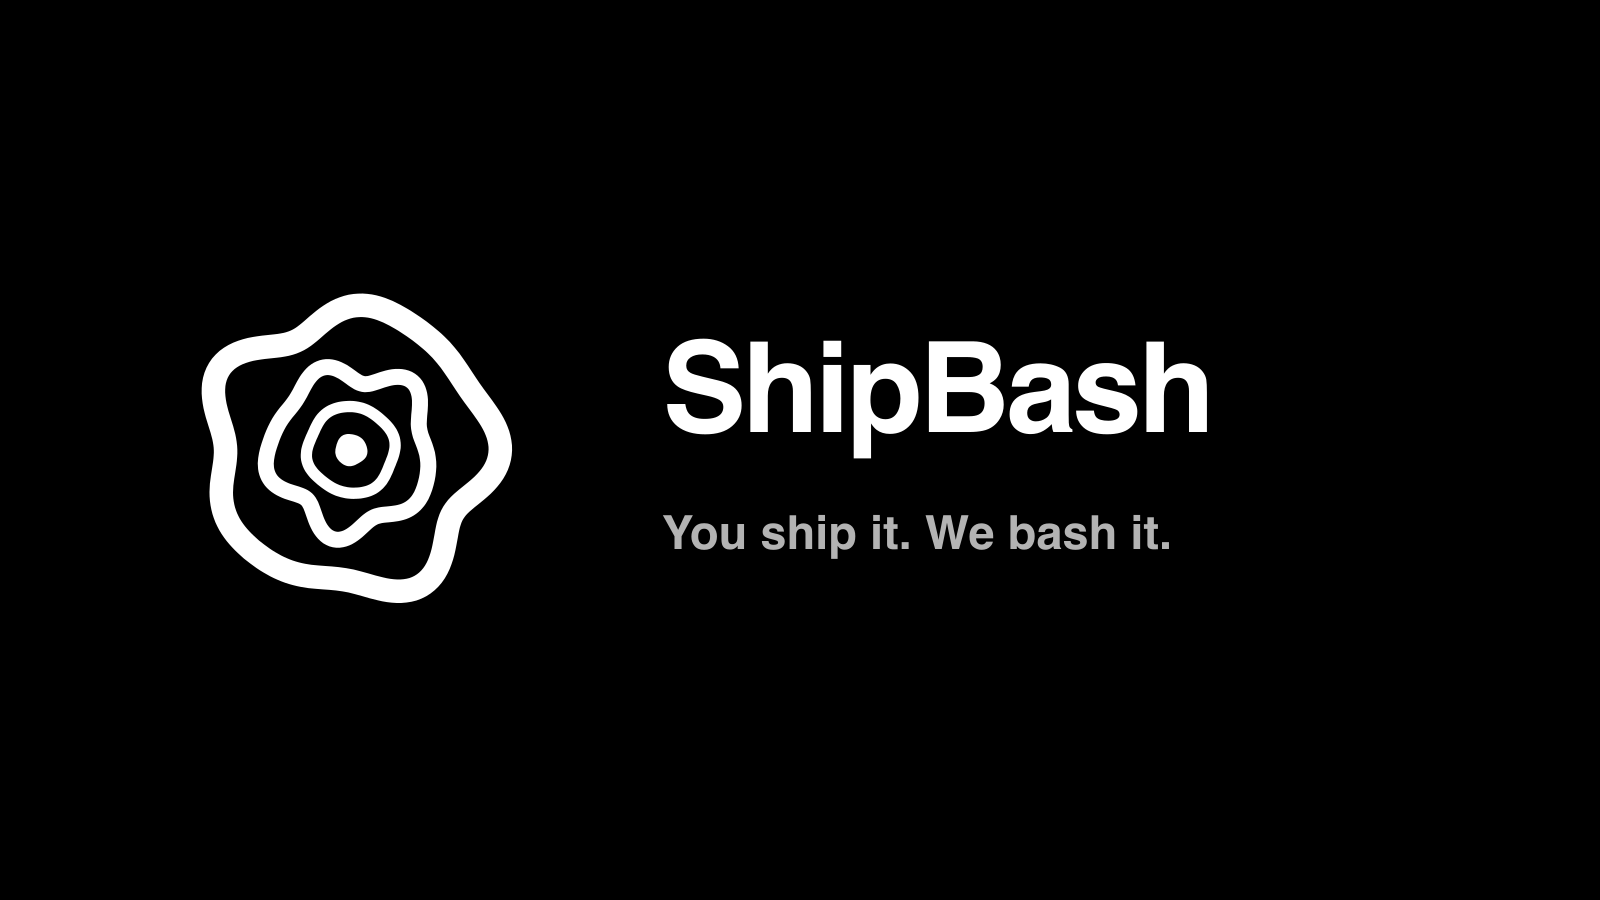
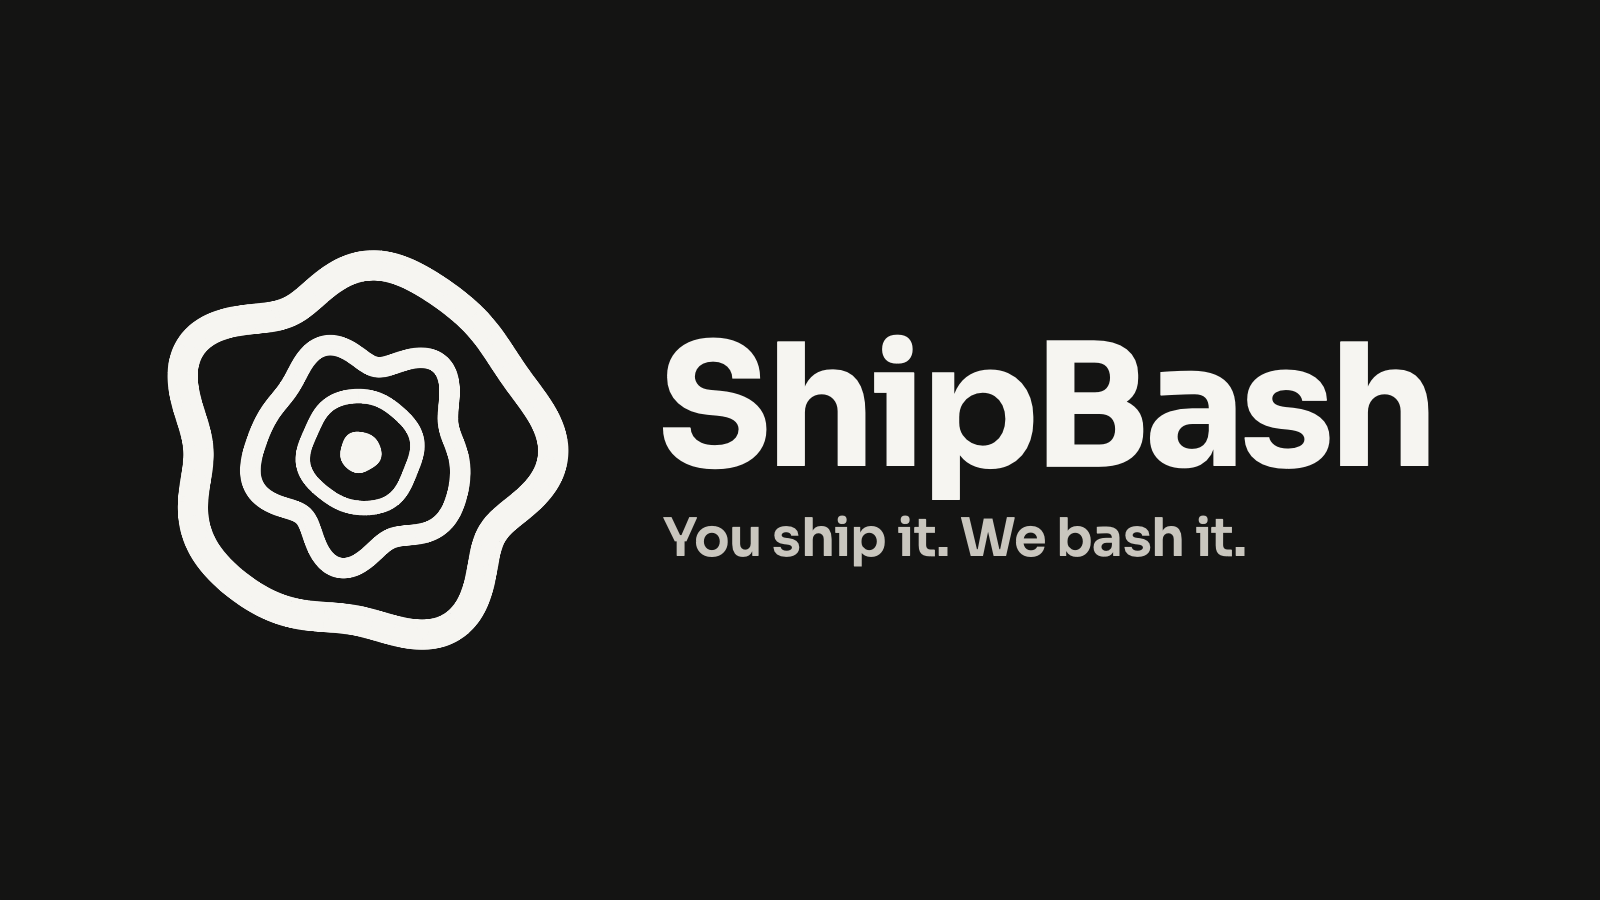
feat(marketing): GitHub link in the nav and the designed share cards (#4)
The marketing nav links to the open-source repository beside Log in (icon
only on phones). The Open Graph image and launch cover now come from the
finished artwork in brand/source, like the repository social preview, and
shipbash.dev uses that Open Graph image instead of the drawn one.

Changed region(s): [[0.4062, 0.3733, 0.9062, 0.6222], [0.0938, 0.28, 0.375, 0.7467]]

diff --git a/scripts/generate-shipbash-assets.ts b/scripts/generate-shipbash-assets.ts
@@ -5,7 +5,6 @@ import sharp from "sharp";
 
 import { staticEyePaths } from "../apps/marketing/lib/wobbly-path.ts";
 
-const PAPER = "#f7f5f2";
 const INK = "#141414";
 const BLACK = "#000000";
 const WHITE = "#ffffff";
@@ -59,24 +58,6 @@ function lockupSvg(ink: string): string {
     `<style>@font-face{font-family:Sora;src:url('${soraDataUrl}') format('woff2');font-weight:700}</style>`,
     `<g transform="translate(26 16) scale(.72)">${eyePaths(ink)}</g>`,
     `<text x="350" y="210" fill="${ink}" font-family="Sora, sans-serif" font-size="132" font-weight="700" letter-spacing="-5">ShipBash</text>`,
-    "</svg>",
-  ].join("");
-}
-
-function socialSvg(width: number, height: number, background: string, ink: string): string {
-  const eyeSize = Math.round(height * 0.46);
-  const eyeX = Math.round(width * 0.09);
-  const eyeY = Math.round((height - eyeSize) / 2);
-  const copyX = eyeX + eyeSize + Math.round(width * 0.065);
-  const titleSize = Math.round(height * 0.14);
-  const taglineSize = Math.round(height * 0.052);
-  return [
-    `<svg xmlns="http://www.w3.org/2000/svg" width="${width}" height="${height}" viewBox="0 0 ${width} ${height}">`,
-    `<style>@font-face{font-family:Sora;src:url('${soraDataUrl}') format('woff2');font-weight:700}</style>`,
-    `<rect width="${width}" height="${height}" fill="${background}"/>`,
-    `<svg x="${eyeX}" y="${eyeY}" width="${eyeSize}" height="${eyeSize}" viewBox="-20 -20 440 440">${eyePaths(ink)}</svg>`,
-    `<text x="${copyX}" y="${Math.round(height * 0.48)}" fill="${ink}" font-family="Sora, sans-serif" font-size="${titleSize}" font-weight="700" letter-spacing="-${Math.round(titleSize * 0.035)}">ShipBash</text>`,
-    `<text x="${copyX}" y="${Math.round(height * 0.61)}" fill="${ink}" opacity=".7" font-family="Sora, sans-serif" font-size="${taglineSize}" font-weight="700">You ship it. We bash it.</text>`,
     "</svg>",
   ].join("");
 }
@@ -156,8 +137,6 @@ const [
   favicon32,
   favicon48,
   githubBadgePreview,
-  openGraph,
-  launchCover,
 ] = await Promise.all([
   png(markBlackSvg, 1024),
   png(markWhiteSvg, 1024),
@@ -172,11 +151,13 @@ const [
   png(faviconSvg, 32),
   png(faviconSvg, 48),
   png(githubBadgePreviewSvg(), 400),
-  png(socialSvg(1200, 630, PAPER, INK), 1200, 630),
-  png(socialSvg(1600, 900, BLACK, WHITE), 1600, 900),
 ]);
 
-const socialPreview = await readFile(join(SOURCE_DIRECTORY, "shipbash-social-preview-1280x640.png"));
+const [socialPreview, openGraph, launchCover] = await Promise.all([
+  readFile(join(SOURCE_DIRECTORY, "shipbash-social-preview-1280x640.png")),
+  readFile(join(SOURCE_DIRECTORY, "shipbash-open-graph-1200x630.png")),
+  readFile(join(SOURCE_DIRECTORY, "shipbash-launch-cover-1600x900.png")),
+]);
 
 const faviconIco = ico([
   { size: 16, data: favicon16 },

diff --git a/apps/marketing/app/_components/marketing-hero.tsx b/apps/marketing/app/_components/marketing-hero.tsx
@@ -95,7 +95,13 @@ export function MarketingHero() {
               <StaticEye compact />
               <span>ShipBash</span>
             </a>
-            <a className="button-sketch login-link" href={`${applicationOrigin}/login`}>Log in</a>
+            <div className="nav-actions">
+              <a className="github-link" href="https://github.com/dohooo/shipbash" aria-label="ShipBash on GitHub">
+                <svg viewBox="0 0 24 24" aria-hidden="true"><path d="M12 0c6.63 0 12 5.276 12 11.79-.001 5.067-3.29 9.567-8.175 11.187-.6.118-.825-.25-.825-.56 0-.398.015-1.665.015-3.242 0-1.105-.375-1.813-.81-2.181 2.67-.295 5.475-1.297 5.475-5.822 0-1.297-.465-2.344-1.23-3.169.12-.295.54-1.503-.12-3.125 0 0-1.005-.324-3.3 1.209a11.32 11.32 0 00-3-.398c-1.02 0-2.04.133-3 .398-2.295-1.518-3.3-1.209-3.3-1.209-.66 1.622-.24 2.83-.12 3.125-.765.825-1.23 1.887-1.23 3.169 0 4.51 2.79 5.527 5.46 5.822-.345.294-.66.81-.765 1.577-.69.31-2.415.81-3.495-.973-.225-.354-.9-1.223-1.845-1.209-1.005.015-.405.56.015.781.51.28 1.095 1.327 1.23 1.666.24.663 1.02 1.93 4.035 1.385 0 .988.015 1.916.015 2.196 0 .31-.225.664-.825.56C3.303 21.374-.003 16.867 0 11.791 0 5.276 5.37 0 12 0z" /></svg>
+                <span>GitHub</span>
+              </a>
+              <a className="button-sketch login-link" href={`${applicationOrigin}/login`}>Log in</a>
+            </div>
           </nav>
 
           <div

diff --git a/apps/marketing/app/globals.css b/apps/marketing/app/globals.css
@@ -64,6 +64,19 @@ button { color: inherit; }
   transition: transform 150ms ease, background 150ms ease, box-shadow 150ms ease, color 150ms ease;
 }
 .login-link { padding: 11px 26px; font-size: 14px; }
+.nav-actions { display: flex; align-items: center; gap: 22px; }
+.github-link {
+  display: inline-flex;
+  align-items: center;
+  gap: 8px;
+  font-family: Sora, Helvetica, sans-serif;
+  font-weight: 700;
+  font-size: 14px;
+  transition: transform 150ms ease;
+}
+.github-link svg { width: 22px; height: 22px; display: block; fill: currentColor; }
+.github-link:hover,
+.github-link:focus-visible { transform: rotate(-3deg) scale(1.06); outline: none; }
 .button-sketch:hover,
 .button-sketch:focus-visible {
   color: var(--ink);
@@ -225,6 +238,9 @@ button { color: inherit; }
   .wordmark svg { width: 30px; height: 30px; }
   .wordmark span { font-size: 17px; }
   .login-link { padding: 9px 18px; font-size: 13px; }
+  .nav-actions { gap: 16px; }
+  .github-link span { display: none; }
+  .github-link svg { width: 24px; height: 24px; }
   .hero-copy { padding: 0 20px; gap: 15px; }
   .hero-copy h1 { font-size: clamp(42px, 13vw, 64px); }
   .hero-copy p { max-width: 34ch; font-size: 16px; line-height: 1.5; }

diff --git a/apps/marketing/app/layout.tsx b/apps/marketing/app/layout.tsx
@@ -27,11 +27,13 @@ export const metadata: Metadata = {
     description: "Browser and terminal tests. Recorded proof. Confidence in every release.",
     type: "website",
     url: "https://shipbash.dev",
+    images: [{ url: "/shipbash-brand/shipbash-open-graph-1200x630.png", width: 1200, height: 630, alt: "ShipBash — You ship it. We bash it." }],
   },
   twitter: {
     card: "summary_large_image",
     title: "ShipBash — You ship it. We bash it.",
     description: "Browser and terminal tests. Recorded proof. Confidence in every release.",
+    images: ["/shipbash-brand/shipbash-open-graph-1200x630.png"],
   },
 };
 

diff --git a/brand/README.md b/brand/README.md
@@ -1,9 +1,9 @@
 # ShipBash brand assets
 
 This directory is the canonical, reviewable home for ShipBash brand files.
-Every export is generated from `source/shipbash-eye.svg`, except the repository
-social preview, which is finished artwork kept as
-`source/shipbash-social-preview-1280x640.png` and copied as-is, by:
+Every export is generated from `source/shipbash-eye.svg`, except the three share
+cards (repository social preview, Open Graph, launch cover), which are finished
+artwork kept in `source/` and copied as-is, by:
 
 ```bash
 bun run brand:assets
